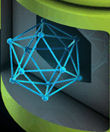
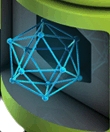
Add a background texture. Animate during nandroids. Fix dir count.

Changed region(s): [[0.0, 0.7273, 0.2455, 1.0]]

diff --git a/ui.c b/ui.c
@@ -70,6 +70,7 @@ static gr_surface *gInstallationOverlay;
 static gr_surface *gProgressBarIndeterminate;
 static gr_surface gProgressBarEmpty;
 static gr_surface gProgressBarFill;
+static gr_surface gBackground;
 static int ui_has_initialized = 0;
 static int ui_log_stdout = 1;
 
@@ -84,6 +85,7 @@ static const struct { gr_surface* surface; const char *name; } BITMAPS[] = {
     { &gBackgroundIcon[BACKGROUND_ICON_FIRMWARE_ERROR], "icon_firmware_error" },
     { &gProgressBarEmpty,               "progress_empty" },
     { &gProgressBarFill,                "progress_fill" },
+    { &gBackground,                "stitch" },
     { NULL,                             NULL },
 };
 
@@ -156,8 +158,20 @@ static void draw_install_overlay_locked(int frame) {
 static void draw_background_locked(int icon)
 {
     gPagesIdentical = 0;
-    gr_color(0, 0, 0, 255);
-    gr_fill(0, 0, gr_fb_width(), gr_fb_height());
+    // gr_color(0, 0, 0, 255);
+    // gr_fill(0, 0, gr_fb_width(), gr_fb_height());
+
+    {
+        int bw = gr_get_width(gBackground);
+        int bh = gr_get_height(gBackground);
+        int bx = 0;
+        int by = 0;
+        for (by = 0; by < gr_fb_height(); by += bh) {
+            for (bx = 0; bx < gr_fb_width(); bx += bw) {
+                gr_blit(gBackground, 0, 0, bw, bh, bx, by);
+            }
+        }
+    }
 
     if (icon) {
         gr_surface surface = gBackgroundIcon[icon];
@@ -680,19 +694,15 @@ void ui_print(const char *fmt, ...)
         struct timeval curtime;
         gettimeofday(&curtime, NULL);
         long ms = delta_milliseconds(lastupdate, curtime);
-        if (ms < 0) {
-            lastupdate = curtime;
-            ms = NICE_INTERVAL;
-        }
-        if (ms < NICE_INTERVAL) {
+        if (ms < NICE_INTERVAL && ms >= 0) {
             ui_niced = 1;
             return;
         }
-        lastupdate = curtime;
     }
 
     // This can get called before ui_init(), so be careful.
     pthread_mutex_lock(&gUpdateMutex);
+    gettimeofday(&lastupdate, NULL);
     if (text_rows > 0 && text_cols > 0) {
         char *ptr;
         for (ptr = buf; *ptr != '\0'; ++ptr) {
@@ -989,4 +999,9 @@ void ui_delete_line() {
     text_row = (text_row - 1 + text_rows) % text_rows;
     text_col = 0;
     pthread_mutex_unlock(&gUpdateMutex);
+}
+
+void ui_increment_frame() {
+    gInstallingFrame =
+        (gInstallingFrame + 1) % ui_parameters.installing_frames;
 }

diff --git a/nandroid.c b/nandroid.c
@@ -78,6 +78,7 @@ static void nandroid_callback(const char* filename)
         tmp[strlen(tmp) - 1] = NULL;
     tmp[ui_get_text_cols() - 1] = '\0';
     nandroid_files_count++;
+    ui_increment_frame();
     ui_nice_print("%s\n", tmp);
     if (!ui_was_niced() && nandroid_files_total != 0)
         ui_set_progress((float)nandroid_files_count / (float)nandroid_files_total);
@@ -88,7 +89,7 @@ static void nandroid_callback(const char* filename)
 static void compute_directory_stats(const char* directory)
 {
     char tmp[PATH_MAX];
-    sprintf(tmp, "find %s | wc -l > /tmp/dircount", directory);
+    sprintf(tmp, "find %s | %s wc -l > /tmp/dircount", directory, strcmp(directory, "/data") == 0 && is_data_media() ? "grep -v /data/media |" : "");
     __system(tmp);
     char count_text[100];
     FILE* f = fopen("/tmp/dircount", "r");

diff --git a/common.h b/common.h
@@ -42,6 +42,7 @@ void ui_set_nice(int enabled);
 #define ui_nice_print(...) { ui_set_nice(1); ui_print(__VA_ARGS__); ui_set_nice(0); }
 int ui_was_niced();
 int ui_get_text_cols();
+void ui_increment_frame();
 
 // Display some header text followed by a menu of items, which appears
 // at the top of the screen (in place of any scrolling ui_print()
